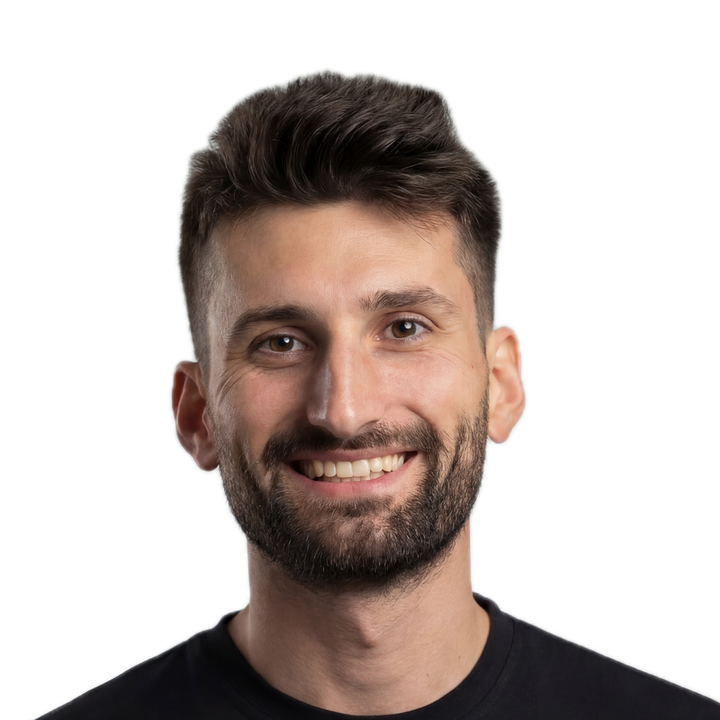
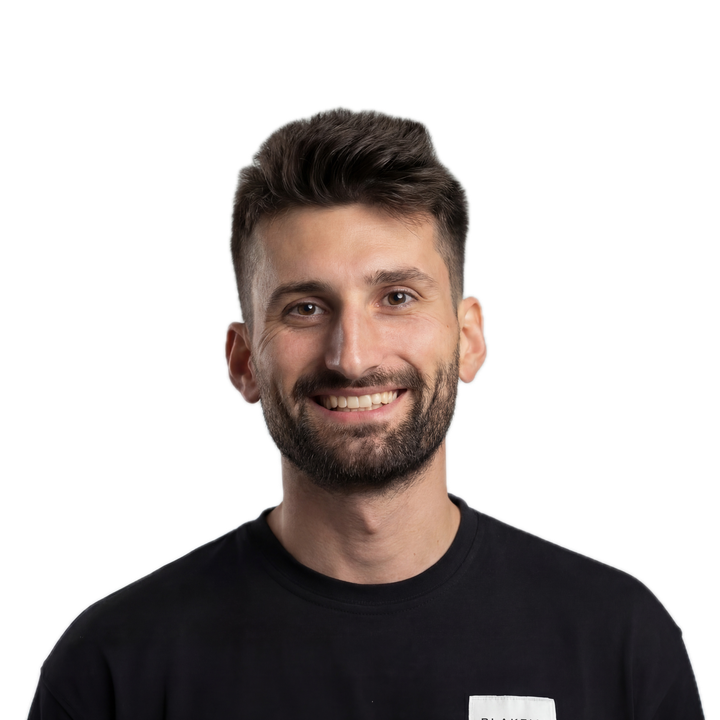
fix: center portraits on detected faces, reuse training deck photos for Sohal and Nadira

diff --git a/index.html b/index.html
@@ -181,8 +181,10 @@ h1, h2, h3 { margin: 0; font-family: var(--font); }
 .seiten-titel { margin: 0 0 26px; font-size: 25px; font-weight: 600; color: var(--w-70); text-align: center; }
 .person { margin: 0; display: flex; flex-direction: column; align-items: center; text-align: center; }
 .rund {
-  --ring: var(--w-25); position: relative; width: 128px; height: 128px; border-radius: 50%;
-  border: 4px solid var(--ring); background: radial-gradient(circle at 50% 30%, #1a2034, #0a0d18);
+  --ring: var(--w-25); position: relative; width: 150px; height: 150px; border-radius: 50%;
+  border: 4px solid var(--ring);
+  /* Glasscheibe wie in der SoulByte Schulung: verschiedene Ursprungsfotos sitzen so in derselben Bildwelt */
+  background: radial-gradient(75% 70% at 50% 12%, rgba(244,246,255,.10), transparent 62%), radial-gradient(80% 80% at 50% 100%, color-mix(in srgb, var(--ring) 16%, transparent), transparent 60%), rgba(12,16,30,.86);
 }
 .rund::before {
   /* Glow ohne box-shadow: weicher Farbschein hinter dem Kreis */
@@ -190,8 +192,8 @@ h1, h2, h3 { margin: 0; font-family: var(--font); }
   background: radial-gradient(circle, color-mix(in srgb, var(--ring) 42%, transparent) 46%, transparent 70%);
 }
 .rund img, .rund .leer { position: absolute; inset: 0; width: 100%; height: 100%; border-radius: 50%; margin: 0; }
-.rund img { object-fit: cover; object-position: center top; display: block; }
-.person.gross .rund { width: 168px; height: 168px; border-width: 5px; }
+.rund img { object-fit: cover; object-position: center bottom; display: block; }
+.person.gross .rund { width: 182px; height: 182px; border-width: 5px; }
 .person.gf .rund { width: 214px; height: 214px; border-width: 5px; }
 .person figcaption { margin-top: 12px; display: flex; flex-direction: column; gap: 2px; }
 .person figcaption b { font-size: 25px; font-weight: 700; color: var(--weiss); }
@@ -208,11 +210,11 @@ h1, h2, h3 { margin: 0; font-family: var(--font); }
 .fremd .rund img { filter: saturate(.55) brightness(.92); }
 .person.fehlt .rund { border-style: dashed; }
 .person.fehlt .leer { display: grid; place-items: center; font-size: 46px; font-weight: 700; color: var(--w-25); }
-.reihe { display: flex; justify-content: center; gap: 30px; margin-top: 24px; }
-.punkte { list-style: none; margin: 30px 0 0; padding: 0; width: 100%; max-width: 640px; }
-.punkte li { position: relative; padding: 9px 0 9px 28px; font-size: 22.5px; line-height: 1.3; color: var(--w-70); border-top: 1px solid var(--hairline); margin: 0; }
+.reihe { display: flex; justify-content: center; gap: 26px; margin-top: 20px; }
+.punkte { list-style: none; margin: 22px 0 0; padding: 0; width: 100%; max-width: 640px; }
+.punkte li { position: relative; padding: 6px 0 6px 28px; font-size: 22.5px; line-height: 1.3; color: var(--w-70); border-top: 1px solid var(--hairline); margin: 0; }
 .punkte li:last-child { border-bottom: 1px solid var(--hairline); }
-.punkte li::before { content: ""; position: absolute; left: 4px; top: 19px; width: 9px; height: 9px; border-radius: 50%; }
+.punkte li::before { content: ""; position: absolute; left: 4px; top: 16px; width: 9px; height: 9px; border-radius: 50%; }
 .service .punkte li::before { background: var(--ring-service); }
 .software .punkte li::before { background: var(--ring-software); }
 .gag { display: flex; flex-direction: column; align-items: center; text-align: center; }

diff --git a/stamm.html b/stamm.html
@@ -181,8 +181,10 @@ h1, h2, h3 { margin: 0; font-family: var(--font); }
 .seiten-titel { margin: 0 0 26px; font-size: 25px; font-weight: 600; color: var(--w-70); text-align: center; }
 .person { margin: 0; display: flex; flex-direction: column; align-items: center; text-align: center; }
 .rund {
-  --ring: var(--w-25); position: relative; width: 128px; height: 128px; border-radius: 50%;
-  border: 4px solid var(--ring); background: radial-gradient(circle at 50% 30%, #1a2034, #0a0d18);
+  --ring: var(--w-25); position: relative; width: 150px; height: 150px; border-radius: 50%;
+  border: 4px solid var(--ring);
+  /* Glasscheibe wie in der SoulByte Schulung: verschiedene Ursprungsfotos sitzen so in derselben Bildwelt */
+  background: radial-gradient(75% 70% at 50% 12%, rgba(244,246,255,.10), transparent 62%), radial-gradient(80% 80% at 50% 100%, color-mix(in srgb, var(--ring) 16%, transparent), transparent 60%), rgba(12,16,30,.86);
 }
 .rund::before {
   /* Glow ohne box-shadow: weicher Farbschein hinter dem Kreis */
@@ -190,8 +192,8 @@ h1, h2, h3 { margin: 0; font-family: var(--font); }
   background: radial-gradient(circle, color-mix(in srgb, var(--ring) 42%, transparent) 46%, transparent 70%);
 }
 .rund img, .rund .leer { position: absolute; inset: 0; width: 100%; height: 100%; border-radius: 50%; margin: 0; }
-.rund img { object-fit: cover; object-position: center top; display: block; }
-.person.gross .rund { width: 168px; height: 168px; border-width: 5px; }
+.rund img { object-fit: cover; object-position: center bottom; display: block; }
+.person.gross .rund { width: 182px; height: 182px; border-width: 5px; }
 .person.gf .rund { width: 214px; height: 214px; border-width: 5px; }
 .person figcaption { margin-top: 12px; display: flex; flex-direction: column; gap: 2px; }
 .person figcaption b { font-size: 25px; font-weight: 700; color: var(--weiss); }
@@ -208,11 +210,11 @@ h1, h2, h3 { margin: 0; font-family: var(--font); }
 .fremd .rund img { filter: saturate(.55) brightness(.92); }
 .person.fehlt .rund { border-style: dashed; }
 .person.fehlt .leer { display: grid; place-items: center; font-size: 46px; font-weight: 700; color: var(--w-25); }
-.reihe { display: flex; justify-content: center; gap: 30px; margin-top: 24px; }
-.punkte { list-style: none; margin: 30px 0 0; padding: 0; width: 100%; max-width: 640px; }
-.punkte li { position: relative; padding: 9px 0 9px 28px; font-size: 22.5px; line-height: 1.3; color: var(--w-70); border-top: 1px solid var(--hairline); margin: 0; }
+.reihe { display: flex; justify-content: center; gap: 26px; margin-top: 20px; }
+.punkte { list-style: none; margin: 22px 0 0; padding: 0; width: 100%; max-width: 640px; }
+.punkte li { position: relative; padding: 6px 0 6px 28px; font-size: 22.5px; line-height: 1.3; color: var(--w-70); border-top: 1px solid var(--hairline); margin: 0; }
 .punkte li:last-child { border-bottom: 1px solid var(--hairline); }
-.punkte li::before { content: ""; position: absolute; left: 4px; top: 19px; width: 9px; height: 9px; border-radius: 50%; }
+.punkte li::before { content: ""; position: absolute; left: 4px; top: 16px; width: 9px; height: 9px; border-radius: 50%; }
 .service .punkte li::before { background: var(--ring-service); }
 .software .punkte li::before { background: var(--ring-software); }
 .gag { display: flex; flex-direction: column; align-items: center; text-align: center; }
